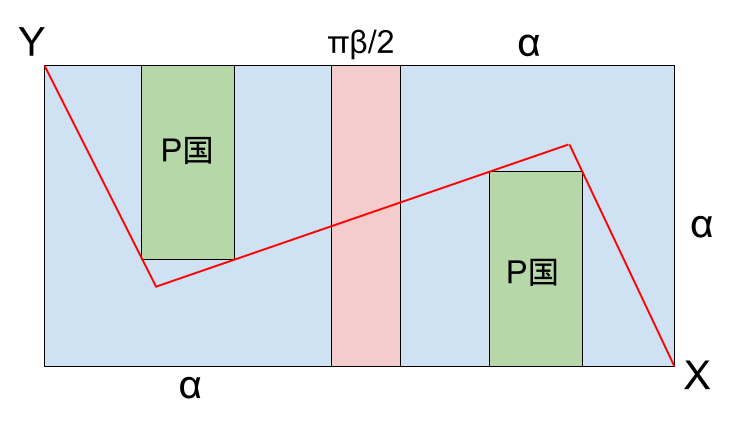
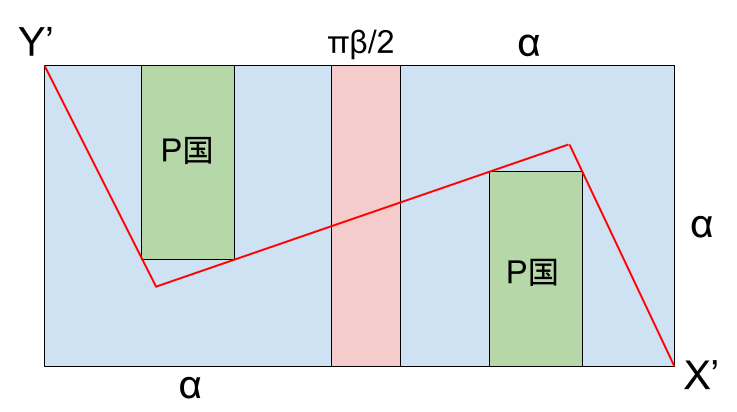
Add files via upload

diff --git a/016/answer.html b/016/answer.html
@@ -53,8 +53,11 @@
                 text-align: center;
                 position: fixed;
                 right: 30px;
-                top: 40%;
+                top: 30%;
                 font-size: large;
+                border: solid 1px;
+                width: 100px;
+                background-color: rgb(227, 254, 202);
             }
         </style>
         <title>SMC 016 Answer</title>        
@@ -63,7 +66,7 @@
         <h1 style="text-align: center;" id="top">Suken Math Contest 016</h1>
         <h2 style="text-align: center;">解説</h2>
 
-        <div id="index" class="border_solid">
+        <div id="index" class="border_solid" style="background-color: rgb(254, 242, 202);">
             <p><a href="#Q1">Q1 FACTORIZATION</a></p>
             <p><a href="#Q2">Q2 RANDOM SEGMENT</a></p>
             <p><a href="#Q3">Q3 COLLATZ</a></p>
@@ -341,6 +344,7 @@
                 </p>
             </div>
 
+            <p>以下,点X',Y'はX国,Y国の上空&beta;単位の地点を指す。</p>
             <h4>(1)</h4>
                 <p><b>&lt;見取り図&gt;</b></p>
                 <img src="Q4_answer_sketch.png" alt="sketch for explanation" width="600px">
@@ -348,7 +352,7 @@
                 <p><b>&lt;展開図 (上図のオレンジ色の部分)&gt;</b></p>
                 <img src="Q4_answer_net_1.png" alt="geometry net 1 for explanation" width="600px">
                 <p>使用ツール: Google Document</p>
-                <p>求める長さは,上の展開図の線分XYの長さで,
+                <p>求める長さは,上の展開図の線分X'Y'の長さで,
                     <br>
                     <math>
                         <msqrt>
@@ -391,25 +395,25 @@
                 <p style="font-size: large;"><b>[証明]</b></p>
                 <img src="Q4_answer_net_3.png" alt="geometry net 3 for explanation" width="600px">
                 <p>使用ツール: Google Document</p>
-                <p>3線分の交点は2つであるので,それらの点を直線AXに近いほうからM,Nとする。
-                    線分MX,MYがP国の領域の長方形(辺上を含まない)を通らないためには,点Mは三角形XAX'の内部(辺上を含む)
-                    にあって,同様に点Nは三角形YBY'の内部(辺上を含む)にある必要がある。
-                    線分MNがP国の領域の長方形(辺上を含まない)を通らないので,点Mは四角形X'X''CAの内部(辺上を含む)内に,
-                    点Mは四角形BDY''Y'の内部(辺上を含む)内に,ある必要がある。
+                <p>3線分の交点は2つであるので,それらの点を直線AX'に近いほうからM,Nとする。
+                    線分MX',MY'がP国の領域の長方形(辺上を含まない)を通らないためには,点Mは三角形X'AX''の内部(辺上を含む)
+                    にあって,同様に点Nは三角形Y'BY''の内部(辺上を含む)にある必要がある。
+                    線分MNがP国の領域の長方形(辺上を含まない)を通らないので,点Mは四角形X''X'''CAの内部(辺上を含む)内に,
+                    点Mは四角形BDY'''Y''の内部(辺上を含む)内に,ある必要がある。
                     また,このとき,3線分はP国の領域の長方形(辺上を含まない)を通らない。
                     <br>また,このことから,ヘリコプターは2回向きを変える必要がある。
                 </p>
-                <p>3線分の長さの和が最小となる点M,Nの位置について議論する。
-                    四角形X'X''CAの内部(辺上を含む)に点E,
-                    四角形DBY'Y''の内部(辺上を含む)に点E'を取り,
-                    線分EE'と線分X'X'',線分EE'と線分Y'Y''の交点をそれぞれF,F'とすると,
-                    FF'&leq'となるので,点M,Nはそれぞれ線分X'X''上,線分Y'Y''上にある。
-                    ここで,線分FF',X''Y''の交点をGとすると,
-                    三角不等式により,GX''&leq;X''F+FG(等号成立は点Fが点X''と一致するとき) , GY''&leq;Y''F'+F'G
-                    (等号成立は点F'が点Y''と一致するとき)
-                    <br>よって,X''Y''=GX''+GY''&leq;X''F+FG+Y''F'+F'G=X''F+FF'+F'Y''
+                <p>3線分の長さの和が最小となる点M,Nの位置について考える。
+                    四角形X''X'''CAの内部(辺上を含む)に点E,
+                    四角形DBY''Y'''の内部(辺上を含む)に点E'を取り,
+                    線分EE'と線分X''X''',線分EE'と線分Y''Y'''の交点をそれぞれF,F'とすると,
+                    FF'&leq;EE'となるので,点M,Nはそれぞれ線分X''X'''上,線分Y''Y'''上にある。
+                    ここで,線分FF',X'''Y'''の交点をGとすると,
+                    三角不等式により,GX'''&leq;X'''F+FG(等号成立は点Fが点X'''と一致するとき) , GY'''&leq;Y'''F'+F'G
+                    (等号成立は点F'が点Y'''と一致するとき)
+                    <br>よって,X'''Y''' = GX'''+GY''' &leq; X'''F + FG+Y'''F' + F'G = X'''F + FF' + F'Y'''
                 </p>
-                <p>以上から点M,Nがそれぞれ点X'',点Y''上にあるとき,3線分の長さの和は最小になる。点X''は三角形XAX'の内部(辺上を含む)に,点Y''は三角形YBY'の内部(辺上を含む)にあるため条件を満たす。</p>
+                <p>以上から点M,Nがそれぞれ点X''',点Y'''上にあるとき,3線分の長さの和は最小になる。点X'''は三角形X'AX''の内部(辺上を含む)に,点Y'''は三角形Y'BY''の内部(辺上を含む)にあるため条件を満たす。</p>
             </div>
 
             <p>この折れ線(①)の長さを求めたい。
@@ -447,7 +451,7 @@
             <p>上の図のように<b>比</b>を用いて斜辺の長さを求めると,</p>
             <p>
                 <math>
-                    <mi>XK</mi><mo>=</mo>
+                    <mi>X'K</mi><mo>=</mo>
                     <mfrac>
                         <mrow>
                             <mn>5</mn><mo>&InvisibleTimes;</mo><msqrt><mn>106</mn></msqrt>
@@ -458,7 +462,7 @@
                 </math>
                 ,
                 <math>
-                    <mi>XL</mi><mo>=</mo>
+                    <mi>KL</mi><mo>=</mo>
                     <mfrac>
                         <mrow><mn>7</mn><mo>&InvisibleTimes;</mo><msqrt><mn>1261</mn></msqrt></mrow>
                         <mn>276</mn>
@@ -469,7 +473,7 @@
             <p>よって,求める長さは,
                 <br>
                 <math>
-                    <mn>2</mn><mo>(</mo><mi>XK</mi><mo>+</mo><mi>KL</mi><mo>)</mo>
+                    <mn>2</mn><mo>(</mo><mi>X'K</mi><mo>+</mo><mi>KL</mi><mo>)</mo>
                     <mo>=</mo>
                 </math>
                 <span style="font-size: x-large;">
@@ -499,8 +503,8 @@
         <script type="text/javascript">
             function Clock(){
                 let now = new Date();
-                document.getElementById("clock1r").innerHTML = now.getFullYear().toString() + "/" + now.getMonth().toString() + "/" + now.getDate().toString();
-                document.getElementById("clock2r").innerHTML = now.getHours().toString() + ":" + now.getMinutes().toString();
+                document.getElementById("clock1r").innerHTML = now.getFullYear().toString() + "/" + (now.getMonth()+1).toString() + "/" + now.getDate().toString();
+                document.getElementById("clock2r").innerHTML = now.getHours().toString().padStart(2,'0') + ":" + now.getMinutes().toString().padStart(2,'0');
             }
             Clock();
             setInterval('Clock()',5000);

diff --git a/016/question.html b/016/question.html
@@ -23,6 +23,9 @@
                 right: 30px;
                 top: 10px;
                 font-size: large;
+                border: solid 1px;
+                width: 100px;
+                background-color: rgb(220, 253, 190);
             }
         </style>
         <title>SMC 016 Question</title>
@@ -117,8 +120,8 @@
         <script type="text/javascript">
             function Clock(){
                 let now = new Date();
-                document.getElementById("clock1r").innerHTML = now.getFullYear().toString() + "/" + now.getMonth().toString() + "/" + now.getDate().toString();
-                document.getElementById("clock2r").innerHTML = now.getHours().toString() + ":" + now.getMinutes().toString();
+                document.getElementById("clock1r").innerHTML = now.getFullYear().toString() + "/" + (now.getMonth()+1).toString() + "/" + now.getDate().toString();
+                document.getElementById("clock2r").innerHTML = now.getHours().toString().padStart(2,'0') + ":" + now.getMinutes().toString().padStart(2,'0');
             }
             Clock();
             setInterval('Clock()',5000);

diff --git a/index.html b/index.html
@@ -53,8 +53,8 @@
     <script type="text/javascript">
         function Clock(){
             let now = new Date();
-            document.getElementById("clock1r").innerHTML = now.getFullYear().toString() + "/" + now.getMonth().toString() + "/" + now.getDate().toString();
-            document.getElementById("clock2r").innerHTML = now.getHours().toString() + ":" + now.getMinutes().toString();
+            document.getElementById("clock1r").innerHTML = now.getFullYear().toString() + "/" + (now.getMonth()+1).toString() + "/" + now.getDate().toString();
+            document.getElementById("clock2r").innerHTML = now.getHours().toString().padStart(2,'0') + ":" + now.getMinutes().toString().padStart(2,'0');
         }
         Clock();
         setInterval('Clock()',5000);
